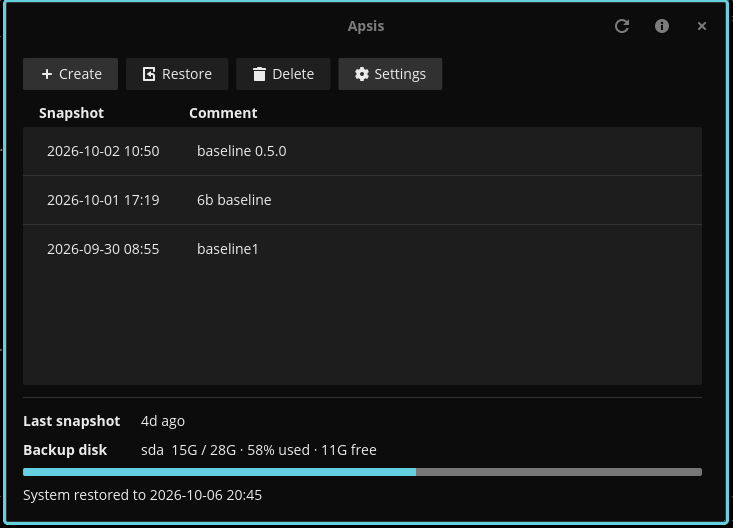
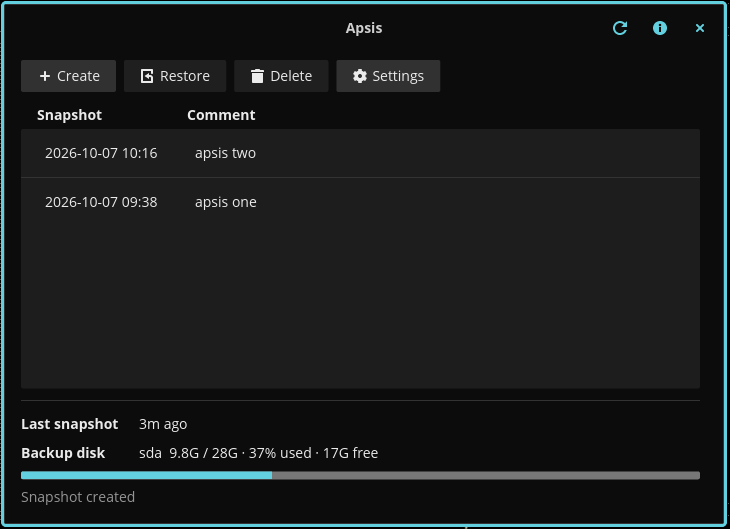
docs: screenshots for 0.6.1 (the popup ring)

diff --git a/README.md b/README.md
@@ -25,7 +25,7 @@ it, so restoring the system does not touch your documents.
 * Click it to see how full the backup disk is and how old the last snapshot is.
   **Open Apsis** opens the window.
 
-![](docs/4.png)
+![](docs/4.png) ![The popup while a snapshot is made](docs/5.png)
 
 ### Snapshots when you want them
 
